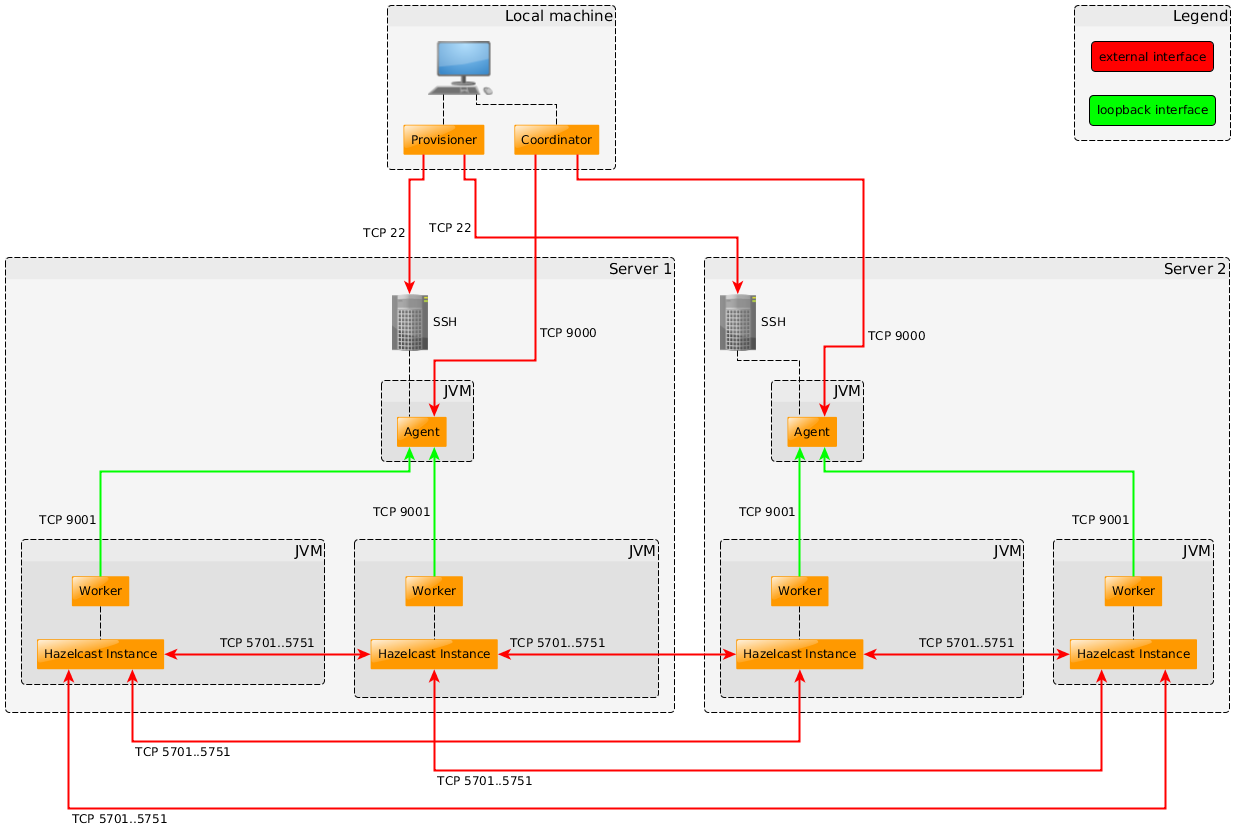
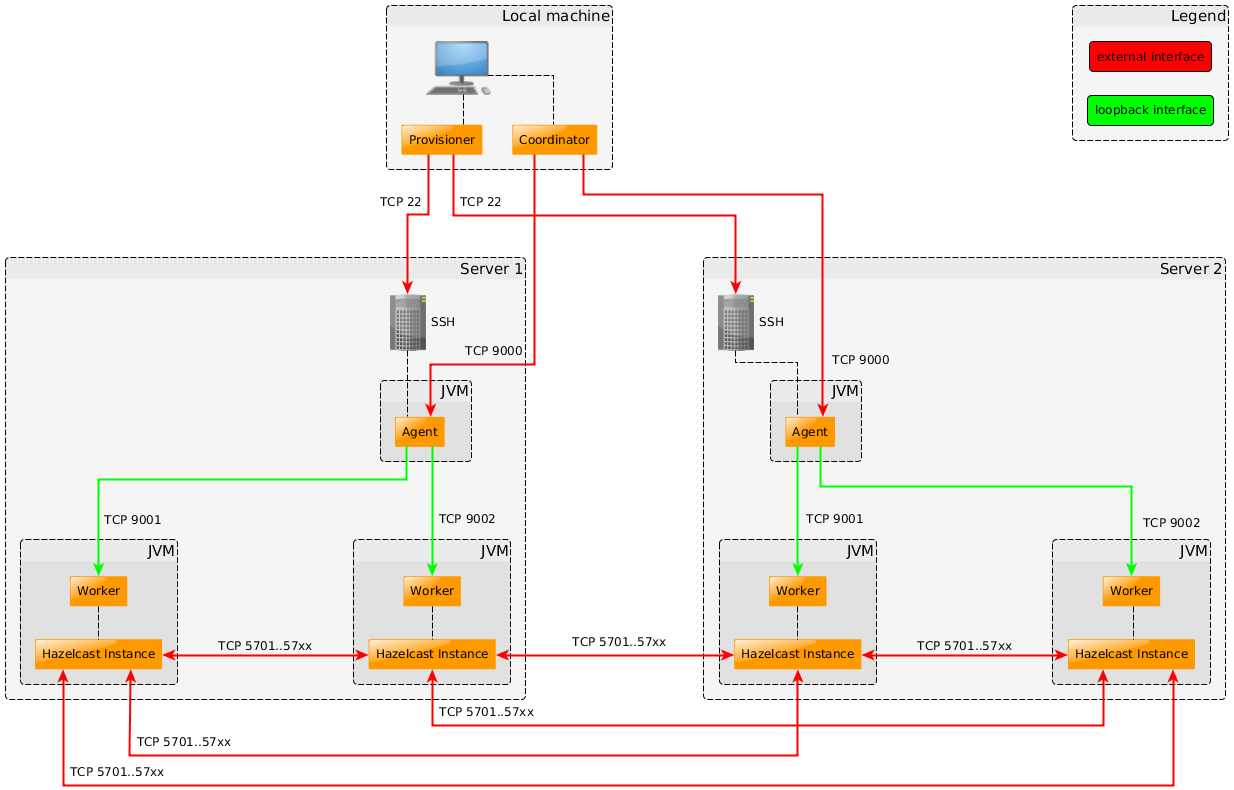
Improved InstallingSimulator.md and changed content of network.png to actual setup.

diff --git a/src/InstallingSimulator.md b/src/InstallingSimulator.md
@@ -5,13 +5,18 @@ Hazelcast Simulator needs a Unix shell to run. Ensure that your local and remote
 
 ### Firewall Settings
 
-Please ensure that all remote machines are reachable via TCP ports 22, 9000 and 5701 to 5751 on their external network interface (for example, `eth0`). The first two ports are used by Hazelcast Simulator. The other ports are used by Hazelcast itself. Port 9001 is used on the loopback device on all remote machines for local communication.
+Please ensure that all remote machines are reachable via TCP ports 22, 9000 and 5701 to 57xx on their external network interface (e.g. `eth0`). The first two ports are used by Hazelcast Simulator. The other ports are used by Hazelcast itself. Ports 9001 to 90xx are used on the loopback device on all remote machines for local communication.
 
 ![](images/HazelcastSimulator/Network.png)
 
-### Setting Up the Local Machine (Coordinator)
+- Port 22 is used for SSH connections to install Simulator on remote machines and to download test result and log files. If you use any other port for SSH you can configure Simulator to use it via the `SSH_OPTIONS` property in the `simulator.properties` file.
+- Port 9000 is used for the communication between `Coordinator` and `Agent`. You can configure this port via the `AGENT_PORT` property in the `simulator.properties` file.
+- Ports 9001 to 90xx are used for the communication between `Agent` and `Worker`. We use as many ports as `Worker` JVMs are spawned on the machine.
+- Ports 5701 to 57xx are used for the Hazelcast instances to form a cluster. We use as many ports as `Worker` JVMs are spawned on the machine, since each of them will create its own Hazelcast instance.
 
-Hazelcast Simulator is provided as a separate downloadable package, in `zip` or `tar.gz` format. You can download either one [here](http://www.hazelcast.org/download).
+### Setting up the Local Machine (Coordinator)
+
+Hazelcast Simulator is provided as a separate downloadable package, in `zip` or `tar.gz` format. You can download either one [here](http://hazelcast.org/download/#simulator).
 
 After the download is completed, follow the below steps.
 
@@ -22,6 +27,12 @@ After the download is completed, follow the below steps.
 ```
 export SIMULATOR_HOME=<extracted folder path>/hazelcast-simulator-<version>
 PATH=$SIMULATOR_HOME/bin:$PATH
+```
+
+- You can test if your Simulator installation is working by calling one of the Simulator tools with the help option. Please keep in mind that you need to open a new terminal to make your changes in `~/.bashrc` or `~/.profile` effective.
+
+```
+simulator-wizard --help
 ```
 
 - Create a working folder for your Simulator `TestSuite` (`tests` is an example name in the following commands).
@@ -36,15 +47,15 @@ mkdir ~/tests
 cp $SIMULATOR_HOME/conf/simulator.properties ~/tests
 ```
 
-### Setting Up the Remote Machines (Agents, Workers)
+### Setting up the Remote Machines (Agents, Workers)
 
 After you have installed Hazelcast Simulator as described in the previous section, make sure you create a user on the remote machines upon which you want to run `Agents` and `Workers`. The default username used by Hazelcast Simulator is `simulator`. You can change this in the `simulator.properties` file in your working folder.
 
-Please ensure that you can connect to the remote machines with the configured username and without password authentication (see the next section). The [Provisioner](#provisioner) terminates when it needs to access the remote machines and cannot connect automatically.
+Please ensure that you can connect to the remote machines with the configured username and without password authentication (see the next section). The [Provisioner](#provisioner) terminates when it needs to access a remote machine and cannot connect automatically.
 
-### Setting Up the Public/Private Key Pair
+### Setting up the Public/Private Key Pair
 
-The preferred method for password free authentication is using an RSA (Rivest,Shamir and Adleman cryptosystem) public/private key pair. The RSA key should not require you to enter the pass-phrase manually. A key with a pass-phrase and ssh-agent-forwarding is strongly recommended, but a key without a pass-phrase also works.
+The preferred method for password free authentication is using an RSA (Rivest, Shamir and Adleman cryptosystem) public/private key pair. The RSA key should not require you to enter the pass-phrase manually. A key with a pass-phrase and ssh-agent-forwarding is strongly recommended, but a key without a pass-phrase also works.
 
 #### Local Machine (Coordinator)
 
